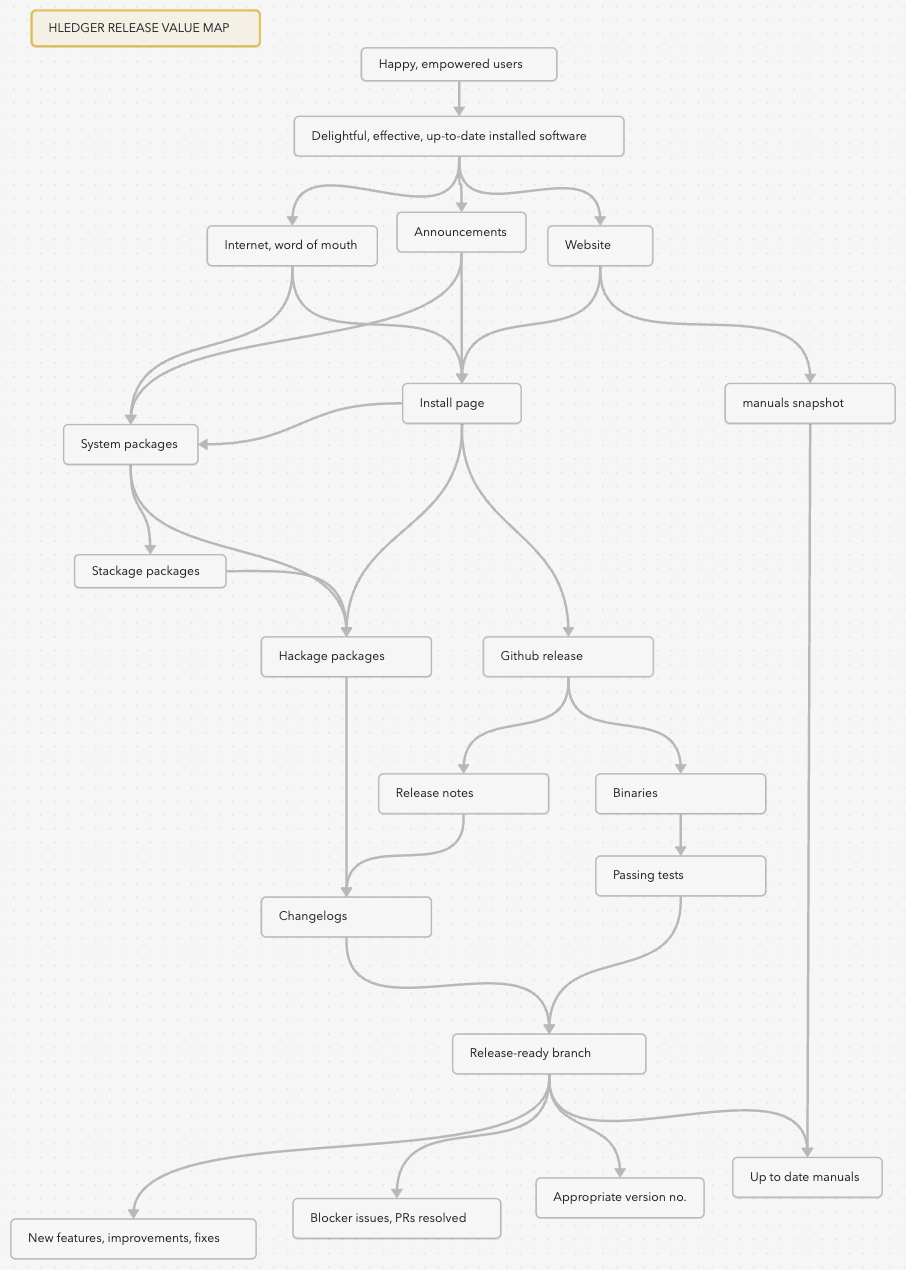
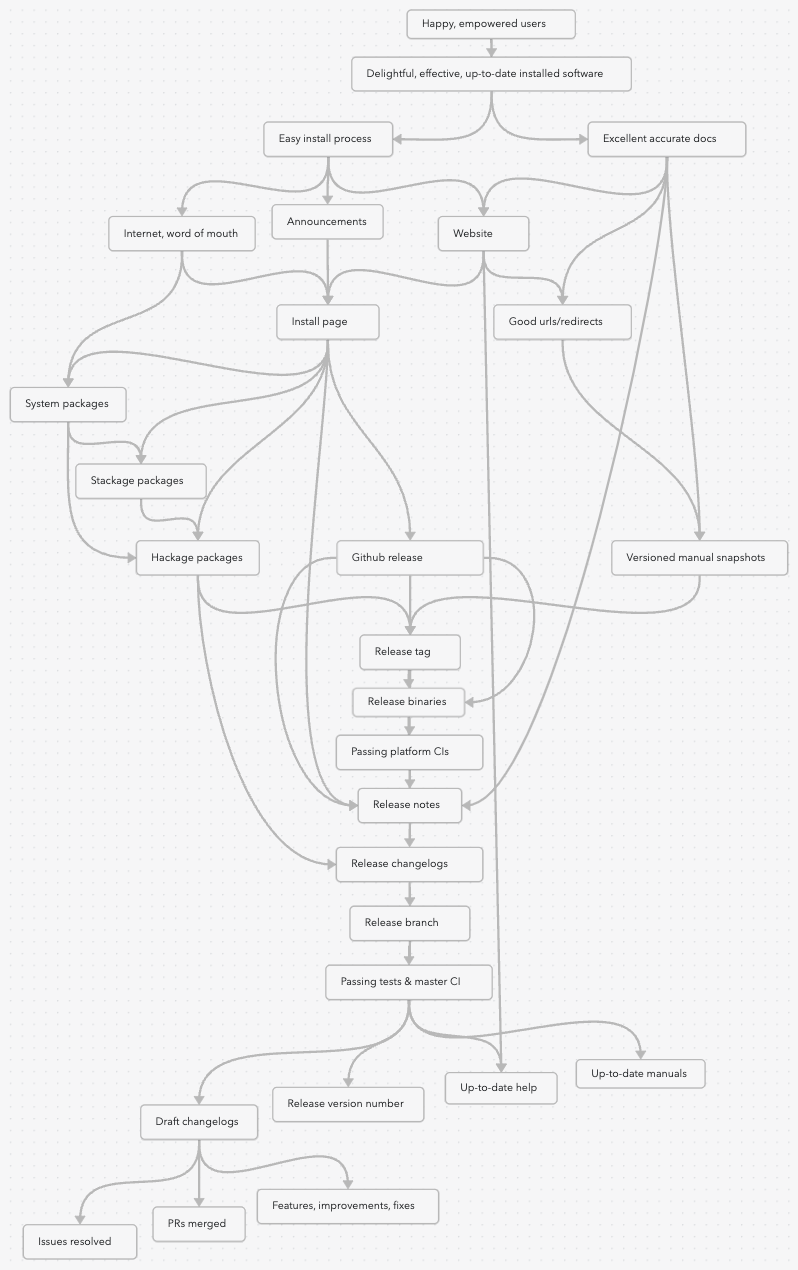
;doc: RELEASING: update value map

diff --git a/doc/RELEASING.md b/doc/RELEASING.md
@@ -110,7 +110,10 @@ These have complex interdependencies and sequencing constraints. Chunk, separate
 
 ## Value map
 
-![value/artifacts map and dependencies in a hledger major release](HledgerReleaseValueMap.png)
+Here is a map of the value chain and artifacts involved in a hledger major release.
+From this we derive the procedures below, and ideally more automated tools over time.
+
+[![value/artifacts map and dependencies in a hledger major release](HledgerReleaseValueMap-fs8.png)](HledgerReleaseValueMap-fs8.png)
 
 ## Procedures
 
